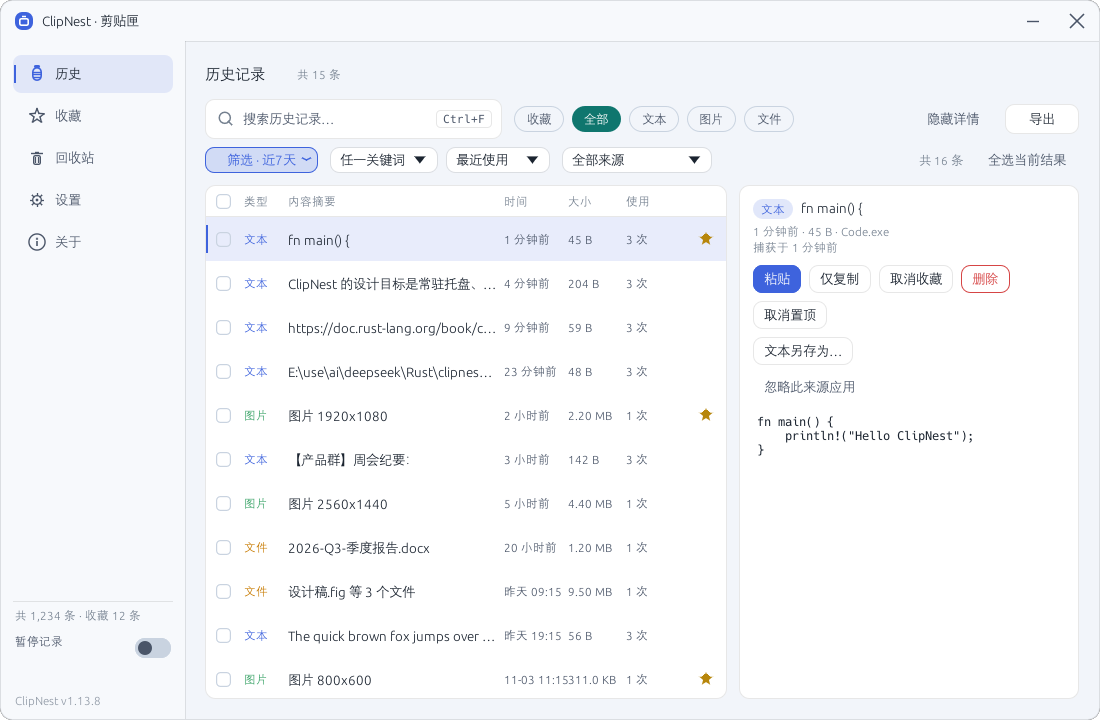
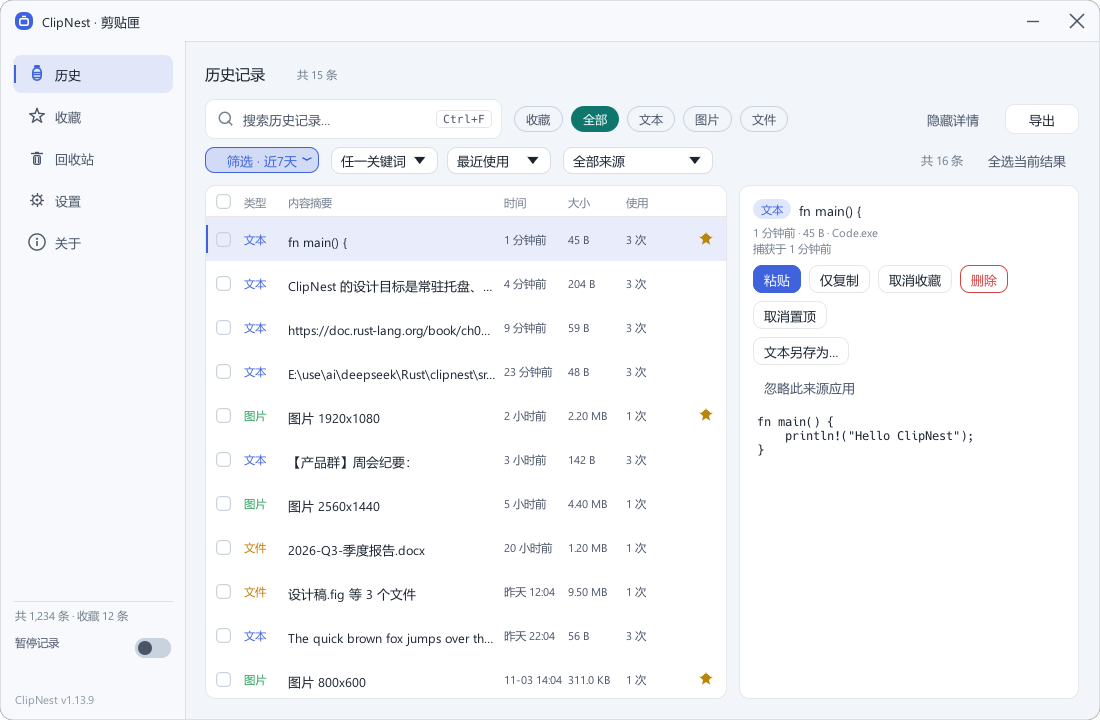
feat: v1.13.9 中文字体改为微软雅黑

diff --git a/src/ui/fonts.rs b/src/ui/fonts.rs
@@ -1,8 +1,7 @@
 //! 中文字体安装：把系统中文字体注入 egui，避免中文显示为方块。
 //!
-//! 依次尝试 `Deng.ttf` → `simhei.ttf` → `msyh.ttc`(索引 0) → `simsun.ttc`(索引 0)，
-//! 任何一步失败都只是跳过，**绝不 panic**；字体同时注入 Proportional 与 Monospace
-//! 族末尾，让拉丁字符继续使用 egui 自带字体、中文自动回退到系统中文字体。
+//! 依次尝试 `msyh.ttc`(索引 0，Microsoft YaHei UI) → `Deng.ttf` → `simhei.ttf` → `simsun.ttc`，
+//! 任何一步失败都只是跳过，**绝不 panic**；西文优先使用 `segoeui.ttf`，中文回退到系统中文字体。
 //!
 //! ## 内存优化（关键）
 //!
@@ -23,11 +22,12 @@ use eframe::egui;
 use std::path::{Path, PathBuf};
 use std::sync::Arc;
 
-/// 候选字体：(文件名, ttc 内索引)，按优先级从高到低（spec §7.2）。
+/// 候选中文字体：(文件名, ttc 内索引)，按优先级从高到低。
+/// 微软雅黑 UI 字形更饱满、屏幕可读性优于等线，作为首选。
 const CANDIDATES: &[(&str, u32)] = &[
+    ("msyh.ttc", 0),
     ("Deng.ttf", 0),
     ("simhei.ttf", 0),
-    ("msyh.ttc", 0),
     ("simsun.ttc", 0),
 ];
 
@@ -60,14 +60,37 @@ fn install_font(ctx: &egui::Context, name: String, mut data: egui::FontData, ind
     // ttc 需要指定 face 索引
     data.index = index;
 
-    // 字体放 Proportional/Monospace 族末尾：拉丁字形仍由 egui 默认字体渲染。
+    // 西文优先使用 Windows 原生的 Segoe UI（字形更实、屏幕可读性好）；
+    // 中文回退到微软雅黑。两者都缺失时继续用 egui 自带字体。
+    let ui_font = load_named("segoeui.ttf", 0);
+    let ui_name = ui_font.as_ref().map(|font| font.name.clone());
+
     fonts.font_data.insert(name.clone(), Arc::new(data));
-    for family in [egui::FontFamily::Proportional, egui::FontFamily::Monospace] {
-        fonts.families.entry(family).or_default().push(name.clone());
+    if let Some(ui) = ui_font {
+        fonts.font_data.insert(ui.name.clone(), Arc::new(ui.data));
     }
 
+    if let Some(list) = fonts.families.get_mut(&egui::FontFamily::Proportional) {
+        if let Some(ui_name) = &ui_name {
+            list.insert(0, ui_name.clone());
+        }
+        // 中文字体始终排在比例字体族的前部：西文字体缺字时回退到这里。
+        list.insert(usize::from(ui_name.is_some()), name.clone());
+    }
+    fonts
+        .families
+        .entry(egui::FontFamily::Monospace)
+        .or_default()
+        .push(name.clone());
+
     ctx.set_fonts(fonts);
-    crate::logging::log(&format!("已加载中文字体：{name}（ttc 索引 {index}，内存映射零拷贝）"));
+    let ui_note = ui_name
+        .as_deref()
+        .map(|value| format!("，西文 {value}"))
+        .unwrap_or_default();
+    crate::logging::log(&format!(
+        "已加载中文字体：{name}（ttc 索引 {index}，内存映射零拷贝）{ui_note}"
+    ));
 }
 
 /// 便于单测的注入入口：用调用方提供的字体字节（owned 路径）。
@@ -76,33 +99,37 @@ fn install_owned_bytes(ctx: &egui::Context, name: String, bytes: Vec<u8>, index:
     install_font(ctx, name, egui::FontData::from_owned(bytes), index);
 }
 
-/// 按优先级找第一个可用字体：优先 mmap 零拷贝，失败回退 `fs::read`。
+/// 按优先级找第一个可用中文字体。
 fn load_first_available() -> Option<LoadedFont> {
-    let font_dir = font_dir();
-    for (file, index) in CANDIDATES {
-        let path = font_dir.join(file);
-        // 系统字体文件较大；小于 1KB 视为损坏/占位文件直接跳过。
-        if let Some(bytes) = map_readonly(&path) {
-            if bytes.len() > 1024 {
-                return Some(LoadedFont {
-                    name: (*file).to_owned(),
-                    data: egui::FontData::from_static(bytes),
-                    index: *index,
-                });
-            }
+    CANDIDATES
+        .iter()
+        .find_map(|(file, index)| load_named(file, *index))
+}
+
+/// 加载指定字体文件，优先 mmap 零拷贝，失败回退 `fs::read`。
+fn load_named(file: &str, index: u32) -> Option<LoadedFont> {
+    let path = font_dir().join(file);
+    // 系统字体文件较大；小于 1KB 视为损坏/占位文件直接跳过。
+    if let Some(bytes) = map_readonly(&path) {
+        if bytes.len() > 1024 {
+            return Some(LoadedFont {
+                name: file.to_owned(),
+                data: egui::FontData::from_static(bytes),
+                index,
+            });
         }
-        if let Ok(bytes) = std::fs::read(&path) {
-            if bytes.len() > 1024 {
-                crate::logging::warn(&format!(
-                    "字体内存映射失败，回退为读取到内存（会多占一份）：{}",
-                    path.display()
-                ));
-                return Some(LoadedFont {
-                    name: (*file).to_owned(),
-                    data: egui::FontData::from_owned(bytes),
-                    index: *index,
-                });
-            }
+    }
+    if let Ok(bytes) = std::fs::read(&path) {
+        if bytes.len() > 1024 {
+            crate::logging::warn(&format!(
+                "字体内存映射失败，回退为读取到内存（会多占一份）：{}",
+                path.display()
+            ));
+            return Some(LoadedFont {
+                name: file.to_owned(),
+                data: egui::FontData::from_owned(bytes),
+                index,
+            });
         }
     }
     None
@@ -189,11 +216,11 @@ mod tests {
     use super::*;
 
     #[test]
-    fn candidate_order_matches_spec() {
-        // spec §7.2：Deng → simhei → msyh → simsun
+    fn candidate_order_prefers_yahei() {
+        // 微软雅黑优先，等线作为缺字体时的回退
         let names: Vec<&str> = CANDIDATES.iter().map(|(f, _)| *f).collect();
-        assert_eq!(names, vec!["Deng.ttf", "simhei.ttf", "msyh.ttc", "simsun.ttc"]);
-        // ttc 候选索引均为 0（取常规体）
+        assert_eq!(names, vec!["msyh.ttc", "Deng.ttf", "simhei.ttf", "simsun.ttc"]);
+        // ttc 候选索引均为 0（msyh 索引 0 为 Microsoft YaHei UI）
         assert!(CANDIDATES.iter().all(|(_, idx)| *idx == 0));
     }
 

diff --git a/docs/ACCEPTANCE-RESULT.md b/docs/ACCEPTANCE-RESULT.md
@@ -1179,3 +1179,22 @@
 - `cargo test --release`：**249 passed / 0 failed / 1 ignored**。
 - `--ui-preview manager` + `CLIPNEST_PREVIEW_TIME=7` 截图 `docs/screenshots/manager-filter.png`：管理台显示「筛选 · 近7天」强调色按钮，无蓝点；关键词/排序/来源与候选窗同宽同间距。
[1 lines of base64/hex data omitted]
+
+## 54. v1.13.9（2026-11-06，中文字体改为微软雅黑）
+
+### 用户反馈
+- 用户 m19464：「UI字体是微软雅黑吗？怎么看起来不够黑，不是很清晰的样子。」
+- 实际启动日志：`已加载中文字体：Deng.ttf`，即中文使用 **等线（DengXian）**，不是微软雅黑；西文仍使用 egui 自带的 Ubuntu-Light。等线字形偏细，叠加浅色/半透明背景后看起来发灰、不够清晰。
+
+### 修复
+- `src/ui/fonts.rs`：
+  - 候选中文字体改为 `msyh.ttc`（索引 0，**Microsoft YaHei UI**）→ `Deng.ttf` → `simhei.ttf` → `simsun.ttc`，保证没有雅黑时仍可回退，不出现方块。
+  - 新增西文字体加载：`segoeui.ttf`（Windows 原生 Segoe UI）优先，中文缺字时回退到 `msyh.ttc`。
+  - Proportional 族顺序为 `[segoeui.ttf, msyh.ttc, egui 默认字体]`；Monospace 族保留 egui 等宽字体，中文追加到末尾。
+  - 仍使用只读 mmap 零拷贝，不增加私有内存；字体缺失只跳过、不 panic。
+- `candidate_order_matches_spec` 改为 `candidate_order_prefers_yahei`，断言雅黑优先且 ttc 索引为 0。
+
+### 校验
+- `cargo test --release`：**249 passed / 0 failed / 1 ignored**。
+- `--ui-preview manager` 截图 `docs/screenshots/manager-filter.png`：中文为微软雅黑、西文为 Segoe UI，字形明显比等线饱满；列表/按钮/下拉均未出现截断或错位。
[1 lines of base64/hex data omitted]

diff --git a/README.md b/README.md
@@ -253,6 +253,7 @@ clipnest.exe（单进程常驻）
 
 ## 更新记录
 
+- **v1.13.9**：中文字体从等线（Deng.ttf）改为 **微软雅黑 UI**（msyh.ttc 索引 0），西文优先使用 Windows 原生 **Segoe UI**；解决界面字形偏细、发灰、不够清晰的问题。微软雅黑缺失时仍按等线 → 黑体 → 宋体回退，不会出现方块。
 - **v1.13.8**：管理台与候选窗的筛选行统一为同一套组件。时间筛选按钮共用 `time_filter_button`，折叠时都显示当前条件（如「筛选 · 近7天」）并使用强调色，不再在管理台单独显示蓝点；关键词模式/排序下拉共用 `filter_meta_row`，宽度与间距一致，管理台保留「全部来源」筛选。另修复最高磨砂不透明度下输入框焦点色 alpha 的 u8 溢出。
 - **v1.13.7**：补上导出、完整备份、恢复的操作结果提示。之前这些按钮在管理台点击后虽然发出了「正在…」和完成/失败 toast，但管理台只绘制页面、不绘制 toast，提示只存在于候选窗，看起来像「点了没反应」。现在管理台底部会显示结果提示（条数、路径、失败原因），显示时长由 1.6s 延长到 3.2s，候选窗与管理台共用同一套淡入淡出。
 - **v1.13.6**：修复「先创建明文备份、之后开启数据库加密，再从该备份恢复」时提示 `file is not a database` 的问题。现在检查/恢复备份会先看备份内数据库文件头，自动区分明文与加密快照：明文备份不再被当前加密密钥误打开，加密备份仍要求同一 Windows 用户密钥。
